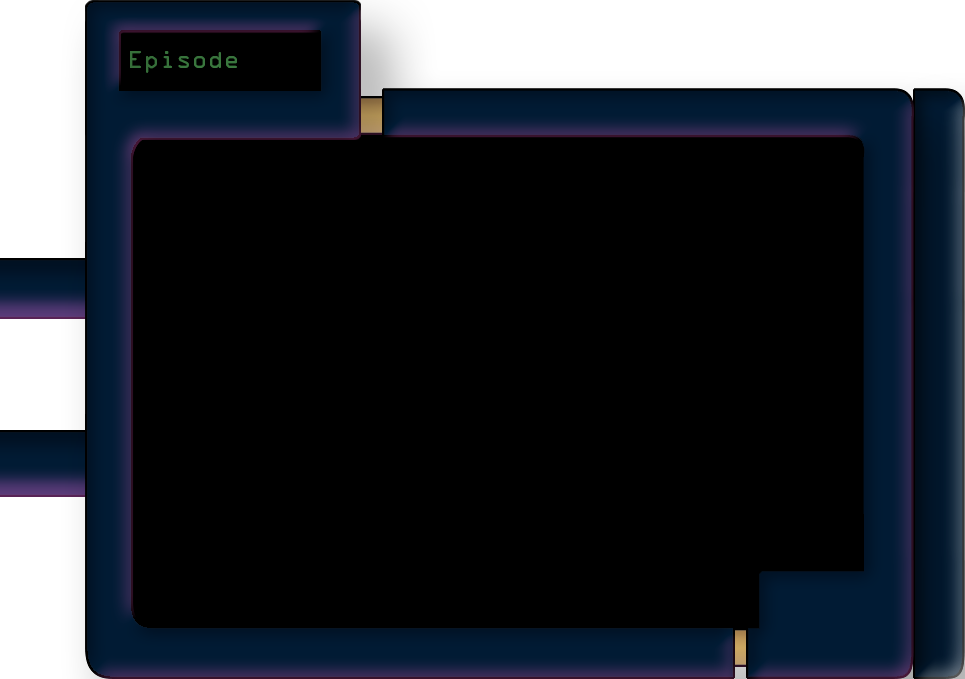
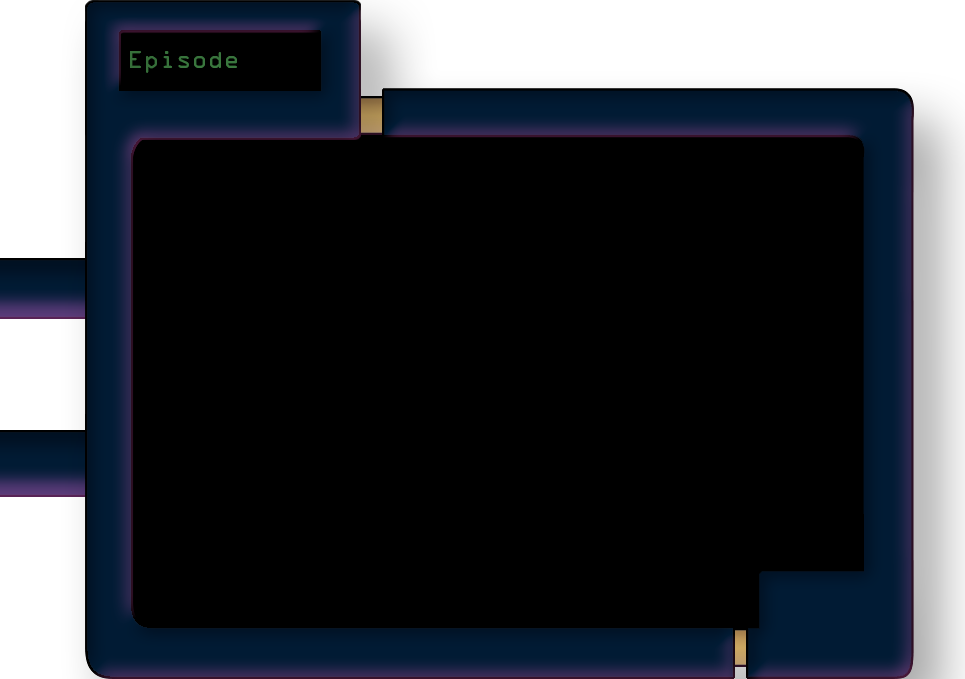
Updated Test Page
Updated shelf and screen images, changed size of text and images, made text and images responsive

Changed region(s): [[0.9326, 0.1237, 1.0, 1.0]]

diff --git a/css/videos2.css b/css/videos2.css
@@ -1,16 +1,31 @@
-#left-blue-screen{
+.left-screen{
+    float: left;
     position: relative;
-    width: 1000px;
 }
-.text-block{
+#left-blue-screen{
+    z-index: 10;
     position: absolute;
-    top:150px;
-    left: 150px;
-    width: 600px;
+    top:1%;
+    left: -.05%;
+    width: 100%;
+}
+#left-blue-shelf{
+    z-index: 9;
+    width: 100%;
+}
+
+.text-block{
+    font-size: 1em;
+    z-index: 11;
+    position: absolute;
+    top: 20%;
+    left: 14%;
+    width: 75%;
 }
 
 .button{
-    height: 75px;
+    z-index: 12;
+    height: 11%;
     background-image: url(../images/TempArt/Spoiler_Buttons110x84.png);
     text-indent: -9999px;
     display: inline-block;
@@ -19,12 +34,12 @@
 
 .spoiler-btn{
     position: absolute;
-    bottom: 35px;
-    right: 80px;
-    width: 110px;
-    background-position: -220px 0px;
+    bottom: 2%;
+    right: 8%;
+    width: 11.5%;
+    background-position: 28% 0;
 }
 
-.spoiler-btn:active{
+.spoiler-btn:hover{
     background-position: 0px -78px;
 }

diff --git a/index.html b/index.html
@@ -23,8 +23,9 @@
 				   </ul>
                 </nav>
         <h1>Episodes</h1>
-        <div id="left-blue-screen">
-            <img src="images/TempArt/Left_Blue_Screen.png"/>
+        <div class=left-screen>
+            <img id="left-blue-shelf" src="images/TempArt/Left_Blue_Shelf.png"/>
+            <img id="left-blue-screen" src="images/TempArt/Left_Blue_Screen.png"/>
             <div class="text-block">
             <p>Hello, This is a test.
                 <br>
